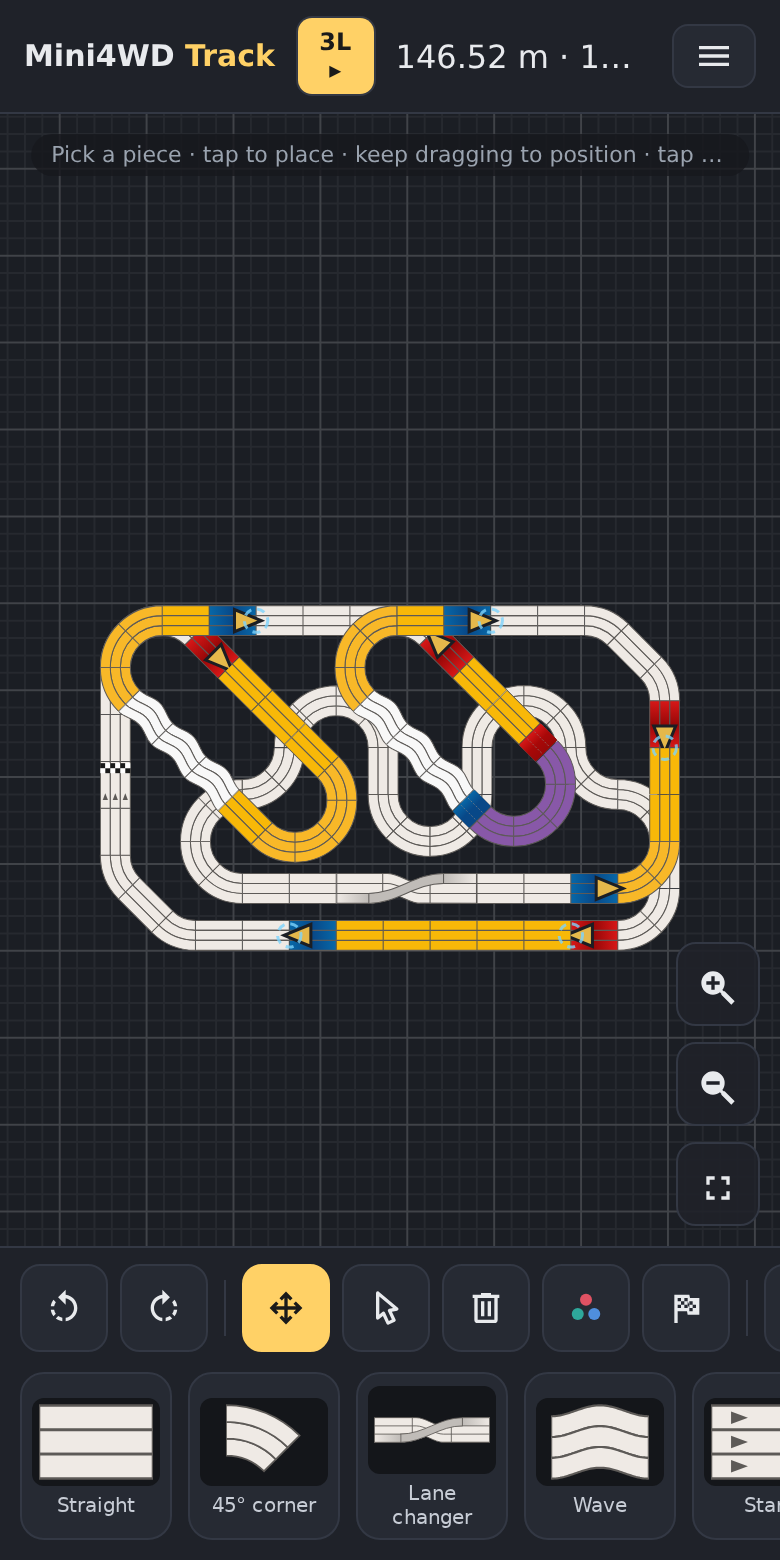
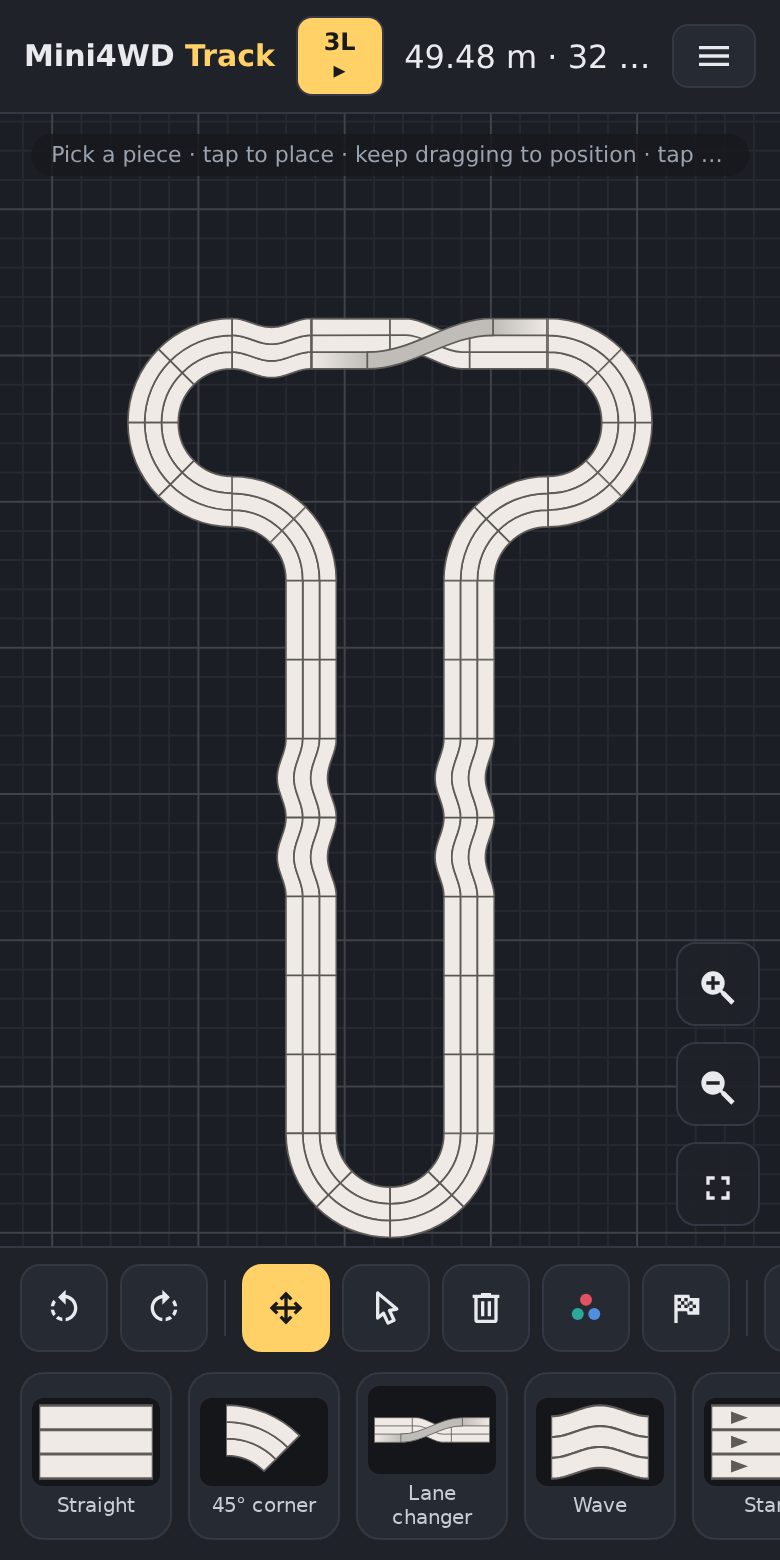
docs: phone shot uses a different (32-piece) circuit

diff --git a/README.md b/README.md
@@ -2,7 +2,7 @@
 
 <p align="center">
   <img src="docs/ux.png" width="72%" alt="The editor on desktop with a 100-piece published circuit">
-  <img src="docs/ux-phone.png" width="23%" alt="The same editor on a phone">
+  <img src="docs/ux-phone.png" width="23%" alt="The editor on a phone with a 32-piece circuit">
 </p>
 
 Design Mini4WD circuits on your phone. Touch-first, no build step, no
